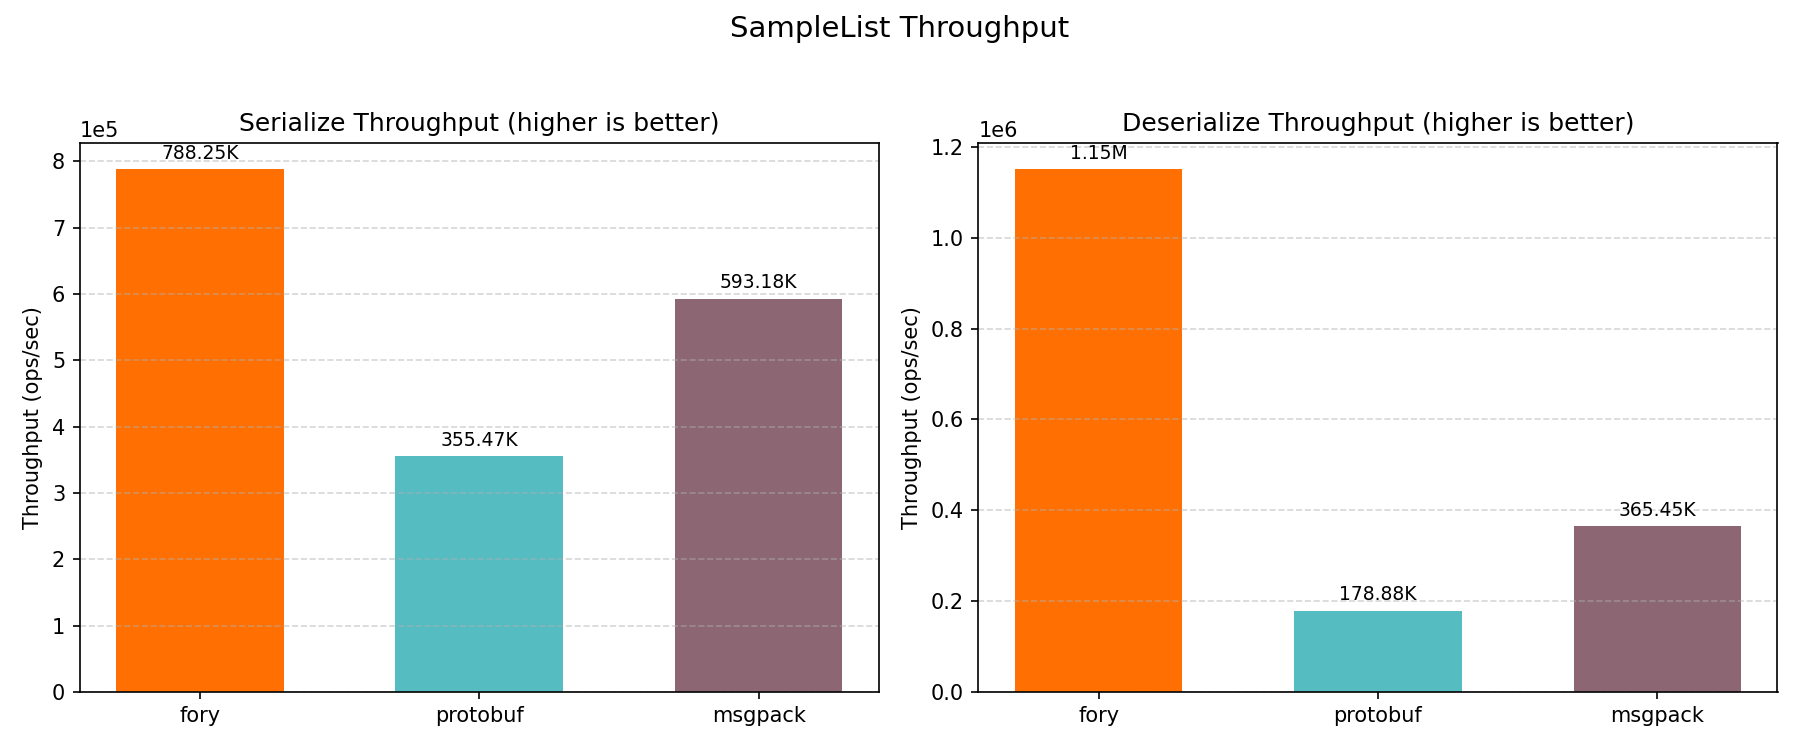
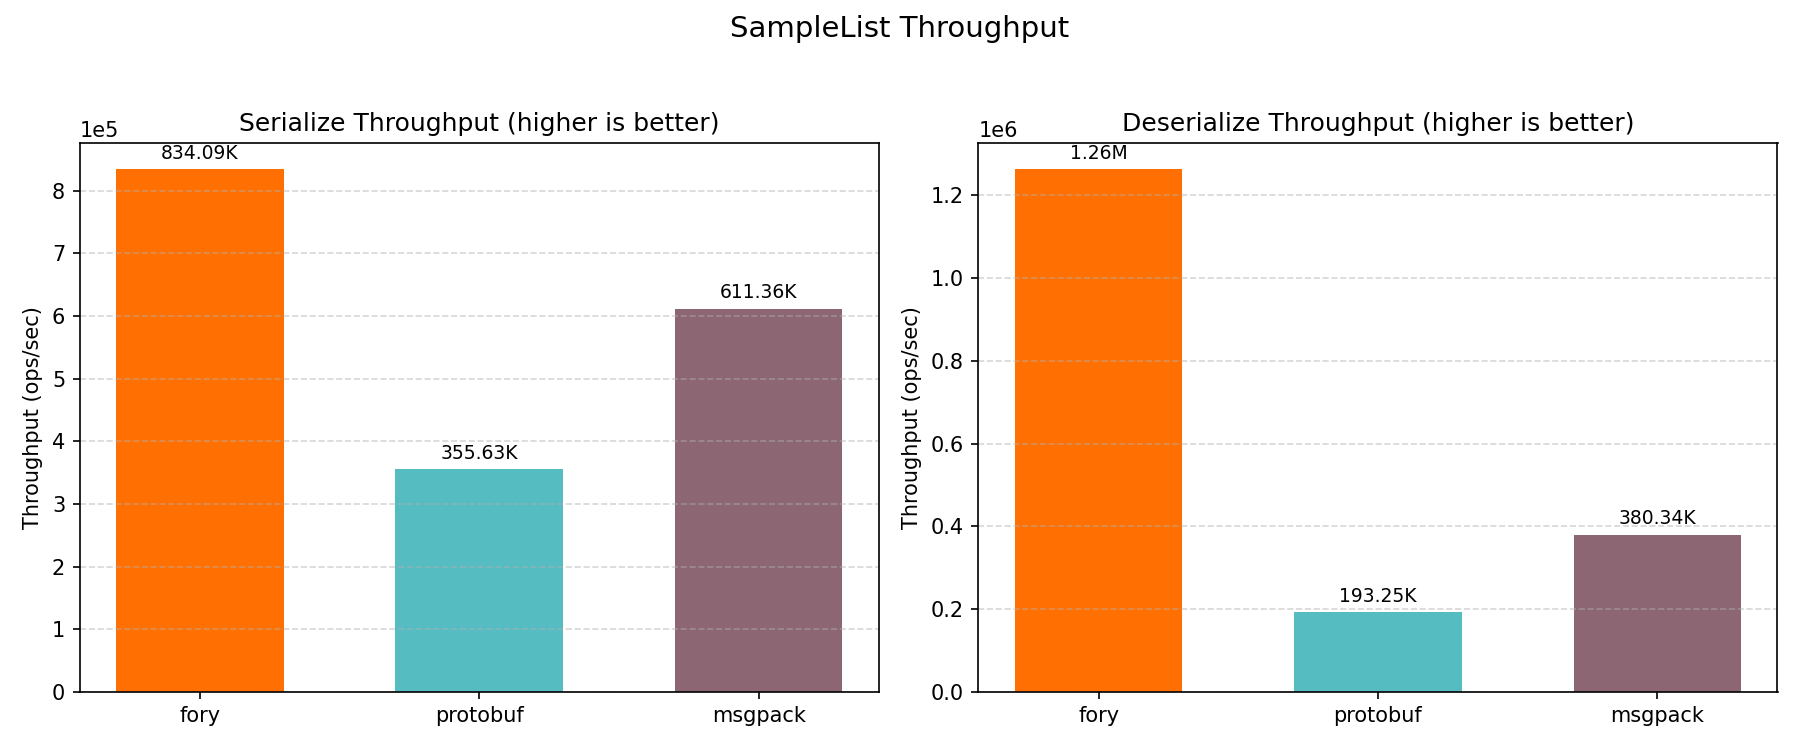
update benchmark for csharp

diff --git a/docs/benchmarks/csharp/README.md b/docs/benchmarks/csharp/README.md
@@ -1,6 +1,6 @@
 # C# Benchmark Performance Report
 
-_Generated on 2026-03-04 10:55:09_
+_Generated on 2026-03-11 02:14:01_
 
 ## How to Generate This Report
 
@@ -18,7 +18,7 @@ python3 benchmark_report.py --json-file build/benchmark_results.json --output-di
 | OS Architecture                    | Arm64                                                                                                                        |
 | Machine                            | Arm64                                                                                                                        |
 | Runtime Version                    | 8.0.24                                                                                                                       |
-| Benchmark Date (UTC)               | 2026-03-04T02:49:28.6972030Z                                                                                                 |
+| Benchmark Date (UTC)               | 2026-03-10T18:14:00.0852460Z                                                                                                 |
 | Warmup Seconds                     | 1                                                                                                                            |
 | Duration Seconds                   | 3                                                                                                                            |
 | CPU Logical Cores (from benchmark) | 12                                                                                                                           |
@@ -87,35 +87,35 @@ All class-level plots below show throughput (ops/sec).
 
 | Datatype         | Operation   | fory (ns) | protobuf (ns) | msgpack (ns) | Fastest |
 | ---------------- | ----------- | --------- | ------------- | ------------ | ------- |
-| Struct           | Serialize   | 47.8      | 129.5         | 66.9         | fory    |
-| Struct           | Deserialize | 55.2      | 195.6         | 103.5        | fory    |
-| Sample           | Serialize   | 307.7     | 570.8         | 345.0        | fory    |
-| Sample           | Deserialize | 174.7     | 1150.5        | 561.7        | fory    |
-| MediaContent     | Serialize   | 289.6     | 481.0         | 360.2        | fory    |
-| MediaContent     | Deserialize | 343.2     | 779.3         | 732.0        | fory    |
-| StructList       | Serialize   | 127.2     | 477.2         | 272.2        | fory    |
-| StructList       | Deserialize | 205.1     | 698.3         | 502.7        | fory    |
-| SampleList       | Serialize   | 1268.6    | 2813.2        | 1685.8       | fory    |
-| SampleList       | Deserialize | 868.8     | 5590.2        | 2736.3       | fory    |
-| MediaContentList | Serialize   | 1320.5    | 2362.1        | 1689.8       | fory    |
-| MediaContentList | Deserialize | 1621.1    | 3612.8        | 3617.5       | fory    |
+| Struct           | Serialize   | 39.2      | 121.5         | 66.0         | fory    |
+| Struct           | Deserialize | 58.3      | 180.1         | 102.6        | fory    |
+| Sample           | Serialize   | 269.2     | 562.6         | 339.6        | fory    |
+| Sample           | Deserialize | 175.6     | 1084.9        | 531.8        | fory    |
+| MediaContent     | Serialize   | 306.3     | 434.7         | 351.5        | fory    |
+| MediaContent     | Deserialize | 379.4     | 718.8         | 676.9        | fory    |
+| StructList       | Serialize   | 136.1     | 468.5         | 266.9        | fory    |
+| StructList       | Deserialize | 221.1     | 687.0         | 488.5        | fory    |
+| SampleList       | Serialize   | 1198.9    | 2811.9        | 1635.7       | fory    |
+| SampleList       | Deserialize | 791.5     | 5174.5        | 2629.2       | fory    |
+| MediaContentList | Serialize   | 1393.9    | 2199.4        | 1710.9       | fory    |
+| MediaContentList | Deserialize | 1719.5    | 3373.1        | 3401.2       | fory    |
 
 ### Throughput Results (ops/sec)
 
 | Datatype         | Operation   | fory TPS   | protobuf TPS | msgpack TPS | Fastest |
 | ---------------- | ----------- | ---------- | ------------ | ----------- | ------- |
-| Struct           | Serialize   | 20,918,778 | 7,720,907    | 14,945,879  | fory    |
-| Struct           | Deserialize | 18,124,445 | 5,113,717    | 9,663,285   | fory    |
-| Sample           | Serialize   | 3,250,380  | 1,752,019    | 2,898,164   | fory    |
-| Sample           | Deserialize | 5,724,338  | 869,217      | 1,780,261   | fory    |
-| MediaContent     | Serialize   | 3,452,789  | 2,079,167    | 2,776,587   | fory    |
-| MediaContent     | Deserialize | 2,913,564  | 1,283,181    | 1,366,101   | fory    |
-| StructList       | Serialize   | 7,858,803  | 2,095,745    | 3,673,471   | fory    |
-| StructList       | Deserialize | 4,874,887  | 1,432,142    | 1,989,397   | fory    |
-| SampleList       | Serialize   | 788,246    | 355,470      | 593,176     | fory    |
-| SampleList       | Deserialize | 1,150,990  | 178,885      | 365,453     | fory    |
-| MediaContentList | Serialize   | 757,278    | 423,351      | 591,774     | fory    |
-| MediaContentList | Deserialize | 616,871    | 276,793      | 276,437     | fory    |
+| Struct           | Serialize   | 25,535,535 | 8,233,006    | 15,153,903  | fory    |
+| Struct           | Deserialize | 17,164,793 | 5,553,220    | 9,745,096   | fory    |
+| Sample           | Serialize   | 3,715,302  | 1,777,405    | 2,944,981   | fory    |
+| Sample           | Deserialize | 5,696,108  | 921,760      | 1,880,420   | fory    |
+| MediaContent     | Serialize   | 3,264,890  | 2,300,297    | 2,845,038   | fory    |
+| MediaContent     | Deserialize | 2,635,449  | 1,391,138    | 1,477,346   | fory    |
+| StructList       | Serialize   | 7,347,503  | 2,134,576    | 3,746,866   | fory    |
+| StructList       | Deserialize | 4,522,114  | 1,455,557    | 2,046,988   | fory    |
+| SampleList       | Serialize   | 834,086    | 355,633      | 611,365     | fory    |
+| SampleList       | Deserialize | 1,263,450  | 193,254      | 380,338     | fory    |
+| MediaContentList | Serialize   | 717,408    | 454,670      | 584,497     | fory    |
+| MediaContentList | Deserialize | 581,554    | 296,459      | 294,015     | fory    |
 
 ### Serialized Data Sizes (bytes)
 
@@ -123,7 +123,7 @@ All class-level plots below show throughput (ops/sec).
 | ---------------- | ---- | -------- | ------- |
 | Struct           | 58   | 61       | 55      |
 | Sample           | 446  | 460      | 562     |
-| MediaContent     | 304  | 307      | 479     |
-| StructList       | 155  | 315      | 284     |
-| SampleList       | 1915 | 2315     | 2819    |
-| MediaContentList | 1440 | 1550     | 2404    |
+| MediaContent     | 365  | 307      | 479     |
+| StructList       | 184  | 315      | 284     |
+| SampleList       | 1980 | 2315     | 2819    |
+| MediaContentList | 1535 | 1550     | 2404    |
